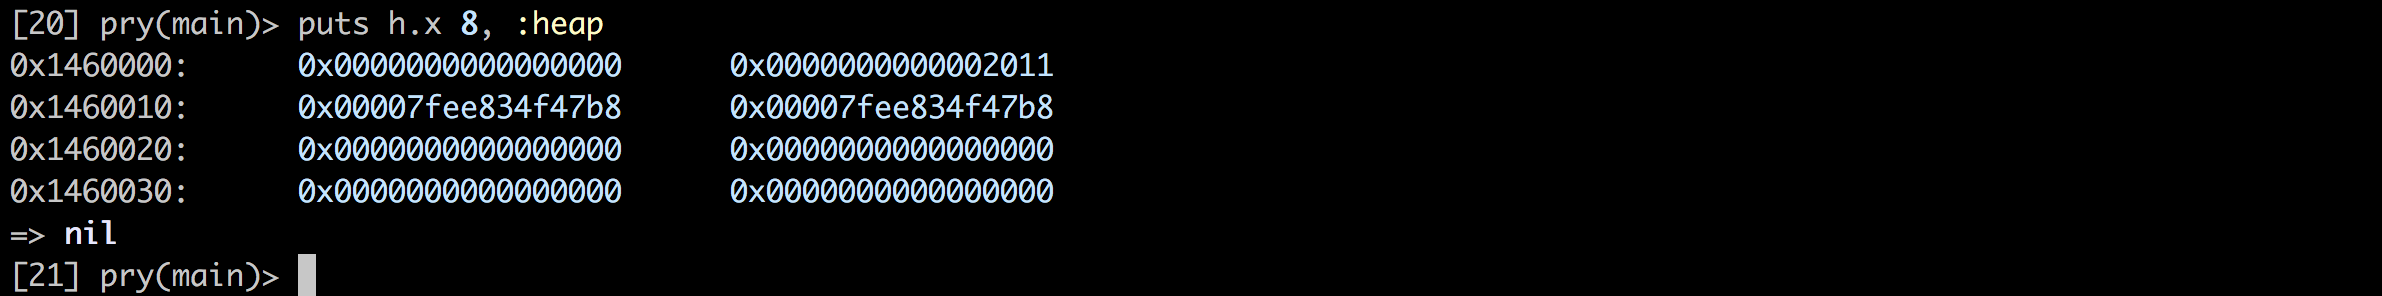
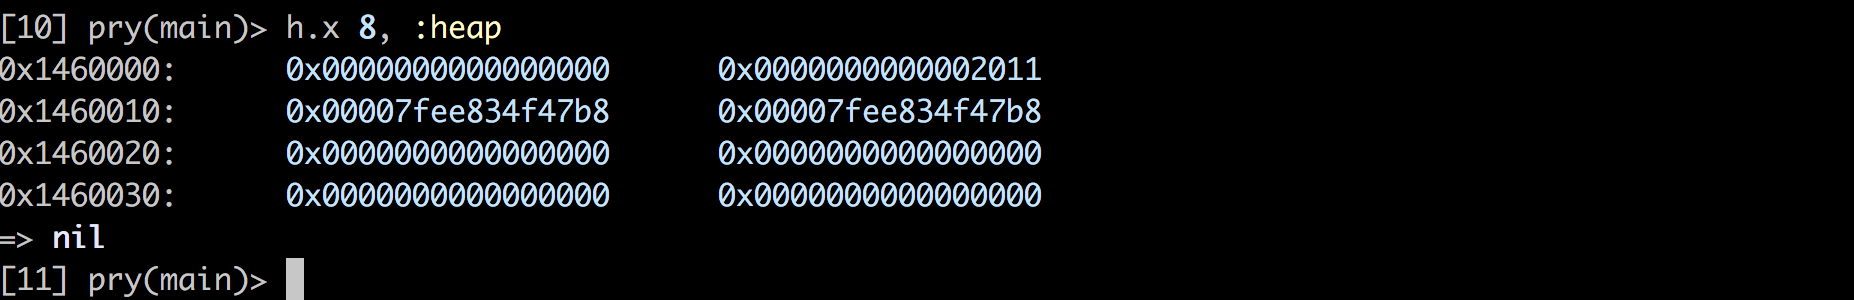
not need puts

diff --git a/lib/heapinfo/process.rb b/lib/heapinfo/process.rb
@@ -86,38 +86,44 @@ module HeapInfo
     #
     # Show dump results like in gdb's command <tt>x</tt>,
     # while will auto detect the current elf class to decide using <tt>gx</tt> or <tt>wx</tt>.
+    #
+    # The dump results wrapper with color codes and nice typesetting will output to <tt>stdout</tt> by default.
     # @param [Integer] count The number of result need to dump, see examples for more information
     # @param [Mixed] commands Same format as <tt>#dump(*args)</tt>, see <tt>#dump</tt> for more information
-    # @return [String] The dump results wrapper with color codes and nice typesetting.
+    # @param [IO] io <tt>IO</tt> that use for printing, default is <tt>$stdout</tt>
+    # @return [NilClass] The return value of <tt>io.puts</tt>.
     # @example
-    #   puts h.x 8, :heap
+    #   h.x 8, :heap
     #   # 0x1f0d000:      0x0000000000000000      0x0000000000002011
     #   # 0x1f0d010:      0x00007f892a9f87b8      0x00007f892a9f87b8
     #   # 0x1f0d020:      0x0000000000000000      0x0000000000000000
     #   # 0x1f0d030:      0x0000000000000000      0x0000000000000000 
     # @example
-    #   puts h.x 3, 0x400000
+    #   h.x 3, 0x400000
     #   # 0x400000:       0x00010102464c457f      0x0000000000000000
     #   # 0x400010:       0x00000001003e0002
-    def x(count, *commands)
-      return unless load?
+    def x(count, *commands, io: $stdout)
+      return unless load? and io.respond_to? :puts
       commands = commands + [count * size_t]
       base = base_of_dump_commands(*commands)
       res = dump(*commands).unpack(size_t == 4 ? "L*" : "Q*")
-      res.group_by.with_index{|_, i| i / (16 / size_t) }.map do |round, values|
+      str = res.group_by.with_index{|_, i| i / (16 / size_t) }.map do |round, values|
         "%#x:\t" % (base + round * 16) + values.map{|v| Helper.color "0x%0#{size_t * 2}x" % v}.join("\t")
       end.join("\n")
+      io.puts str
     end
 
     # Pretty dump of bins layouts.
     #
-    # @param [Symbol] args Bin type(s) you want to see.
-    # @return [String] Bin layouts that wrapper with color codes.
+    # The request layouts will output to <tt>stdout</tt> by default.
+    # @param [Array<Symbol>] args Bin type(s) you want to see.
+    # @param [IO] io <tt>IO</tt> that use for printing, default is <tt>$stdout</tt>
+    # @return [NilClass] The return value of <tt>io.puts</tt>.
     # @example
-    #   puts h.layouts :fastbin, :unsorted_bin, :smallbin
-    def layouts(*args)
-      return unless load?
-      self.libc.main_arena.layouts(*args)
+    #   h.layouts :fastbin, :unsorted_bin, :smallbin
+    def layouts(*args, io: $stdout)
+      return unless load? and io.respond_to? :puts
+      io.puts self.libc.main_arena.layouts(*args)
     end
 
     # Show simple information of target process.

diff --git a/spec/process_spec.rb b/spec/process_spec.rb
@@ -44,6 +44,8 @@ describe HeapInfo::Process do
       exec "setarch `uname -m` -R /bin/sh -c #{@victim}" if pid.nil?
       loop until `pidof #{@victim}` != '' 
       @h = heapinfo(@victim, ld: '/ld')
+      class Cio;def puts(s);s;end;end
+      @io = Cio.new
     end
     after(:all) do
       %x(killall #{@victim})
@@ -58,8 +60,8 @@ describe HeapInfo::Process do
     end
 
     it 'x' do
-      expect(@h.x 3, :heap).to eq "0x602000:\t\e[38;5;12m0x0000000000000000\e[0m\t\e[38;5;12m0x0000000000000021\e[0m\n0x602010:\t\e[38;5;12m0x0000000000000000\e[0m"
-      expect(@h.x 2, 'heap+0x20').to eq "0x602020:\t\e[38;5;12m0x0000000000000000\e[0m\t\e[38;5;12m0x0000000000000021\e[0m"
+      expect(@h.x 3, :heap, io: @io).to eq "0x602000:\t\e[38;5;12m0x0000000000000000\e[0m\t\e[38;5;12m0x0000000000000021\e[0m\n0x602010:\t\e[38;5;12m0x0000000000000000\e[0m"
+      expect(@h.x 2, 'heap+0x20', io: @io).to eq "0x602020:\t\e[38;5;12m0x0000000000000000\e[0m\t\e[38;5;12m0x0000000000000021\e[0m"
     end
 
     it 'debug wrapper' do
@@ -87,7 +89,7 @@ describe HeapInfo::Process do
       end
 
       it 'fastbin' do
-        lay = @h.layouts :fastbin
+        lay = @h.layouts :fastbin, io: @io
         expect(lay).to include '0xdeadbeef'
         expect(lay).to include '(nil)'
         expect(lay).to include '(invalid)'
@@ -106,7 +108,7 @@ describe HeapInfo::Process do
         expect(list).to eq [0x6020f0, base, 0x6020f0]
       end
       it 'layouts' do
-        inspect = @h.layouts :smallbin, :unsorted_bin
+        inspect = @h.layouts :smallbin, :unsorted_bin, io: @io
         expect(inspect).to include "[self]"
         expect(inspect).to include '0x6020f0'
         expect(inspect).to include 'UnsortedBin'

diff --git a/lib/heapinfo/dumper.rb b/lib/heapinfo/dumper.rb
@@ -39,7 +39,7 @@ module HeapInfo
       len = args.size == 2 ? DUMP_BYTES : Integer(args[-1])
       offset = Integer(args[1])
       base = args[0]
-      base = base.to_sym if base.is_a? String
+      base = base.delete(':').to_sym if base.is_a? String
       [base, offset, len]
     end
 

diff --git a/examples/uaf/uaf.rb b/examples/uaf/uaf.rb
@@ -17,7 +17,7 @@ h.debug {
 }
 
 z.puts 4; z.puts 0 # delete Benz
-puts h.layouts :fastbin # show fastbin
+h.layouts :fastbin # show fastbin
 
 z.puts 2 # new Magic
 

diff --git a/README.md b/README.md
@@ -89,17 +89,17 @@ h.debug {
 
 #### layouts
 ```ruby
-puts h.layouts :fastbin
+h.layouts :fastbin
 ```
 ![fastbin layouts](https://github.com/david942j/heapinfo/blob/master/examples/fastbin_layouts.png?raw=true)
 
 ```ruby
-puts h.layouts :unsorted_bin, :smallbin
+h.layouts :unsorted_bin, :smallbin
 ```
 ![smallbin layouts](https://github.com/david942j/heapinfo/blob/master/examples/unsorted_smallbin_layouts.png?raw=true)
 
 #### x
 ```ruby
-puts h.x 8, :heap
+h.x 8, :heap
 ```
 ![x/8gx](https://github.com/david942j/heapinfo/blob/master/examples/x8_heap.png?raw=true)
